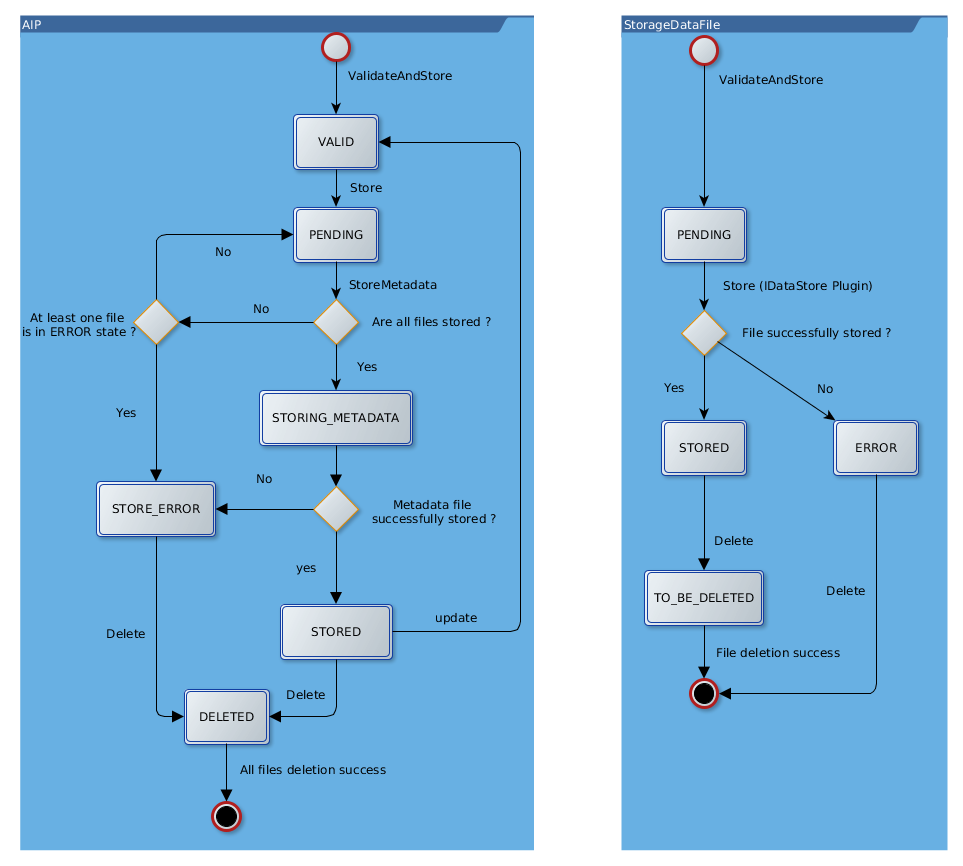
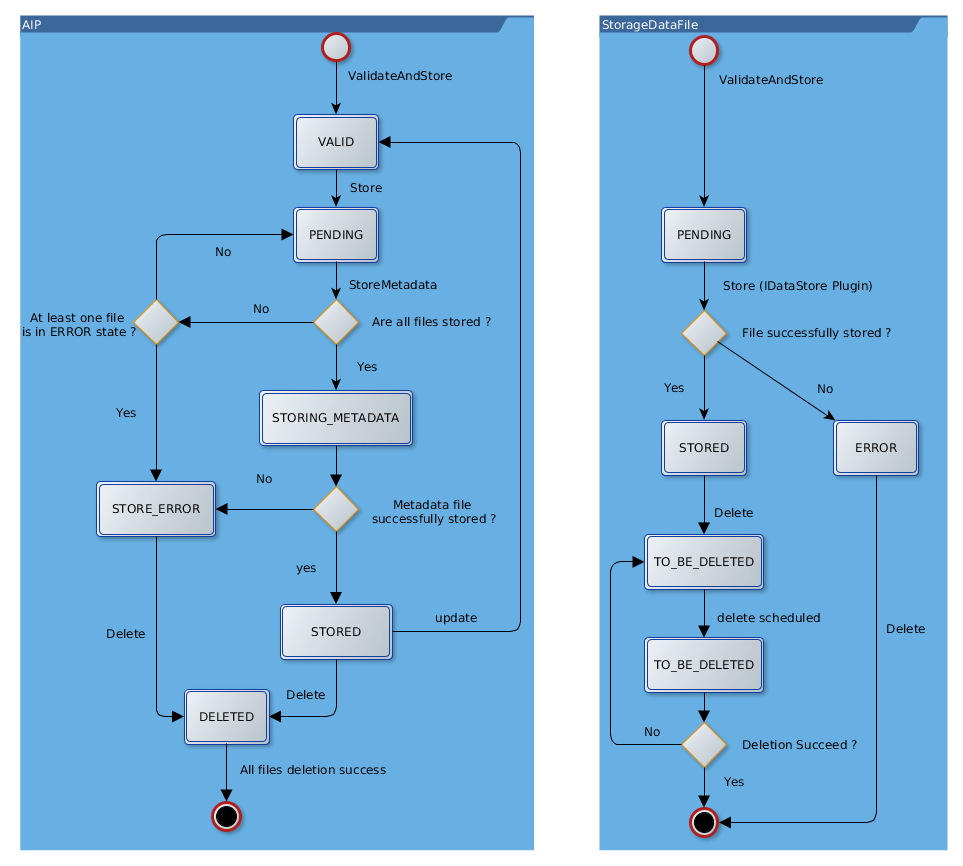
[rs-storage] Update delete process to handle more files.

Changed region(s): [[0.6231, 0.0, 0.8723, 0.9977], [0.9346, 0.7171, 0.9657, 0.7483], [0.8723, 0.6547, 0.9034, 0.6859]]

diff --git a/rs-storage/storage/storage-service/src/main/java/fr/cnes/regards/modules/storage/service/AIPService.java b/rs-storage/storage/storage-service/src/main/java/fr/cnes/regards/modules/storage/service/AIPService.java
@@ -1232,17 +1232,20 @@ public class AIPService implements IAIPService {
     }
 
     @Override
-    public int doDelete() {
-        Page<StorageDataFile> pageToDelete = dataFileDao.findPageByState(DataFileState.TO_BE_DELETED,
-                                                                         new PageRequest(0, aipIterationLimit));
-        if (pageToDelete.hasContent()) {
+    public Long doDelete() {
+        Pageable page = new PageRequest(0, aipIterationLimit);
+        Page<StorageDataFile> pageToDelete;
+        do {
+            pageToDelete = dataFileDao.findPageByState(DataFileState.TO_BE_DELETED, page);
             try {
                 scheduleDeletion(pageToDelete.getContent());
             } catch (ModuleException e) {
                 LOGGER.error("ERROR occured during deletion scheduling of datafiles.", e);
             }
-        }
-        return pageToDelete.getNumberOfElements();
+            page = pageToDelete.nextPageable();
+        } while (pageToDelete.hasNext());
+
+        return pageToDelete.getTotalElements();
     }
 
     @Override
@@ -1292,8 +1295,11 @@ public class AIPService implements IAIPService {
         // when we delete DataFiles, we have to get the DataStorages to use thanks to DB informations
         Multimap<Long, StorageDataFile> deletionWorkingSetMultimap = HashMultimap.create();
         for (StorageDataFile toDelete : dataFilesToDelete) {
-            toDelete.getPrioritizedDataStorages()
-                    .forEach(dataStorage -> deletionWorkingSetMultimap.put(dataStorage.getId(), toDelete));
+            toDelete.getPrioritizedDataStorages().forEach(dataStorage -> {
+                deletionWorkingSetMultimap.put(dataStorage.getId(), toDelete);
+            });
+            toDelete.setState(DataFileState.DELETION_PENDING);
+            dataFileDao.save(toDelete);
         }
         Set<UUID> jobIds = Sets.newHashSet();
         for (Long dataStorageConfId : deletionWorkingSetMultimap.keySet()) {

diff --git a/rs-storage/storage/storage-rest/src/test/java/fr/cnes/regards/modules/storage/rest/AbstractAIPControllerIT.java b/rs-storage/storage/storage-rest/src/test/java/fr/cnes/regards/modules/storage/rest/AbstractAIPControllerIT.java
@@ -47,6 +47,7 @@ import fr.cnes.regards.modules.notification.client.INotificationClient;
 import fr.cnes.regards.modules.project.client.rest.IProjectsClient;
 import fr.cnes.regards.modules.storage.dao.IAIPDao;
 import fr.cnes.regards.modules.storage.dao.IAIPSessionRepository;
+import fr.cnes.regards.modules.storage.dao.IAIPUpdateRequestRepository;
 import fr.cnes.regards.modules.storage.dao.IDataFileDao;
 import fr.cnes.regards.modules.storage.dao.IPrioritizedDataStorageRepository;
 import fr.cnes.regards.modules.storage.domain.AIP;
@@ -98,6 +99,9 @@ public abstract class AbstractAIPControllerIT extends AbstractRegardsTransaction
     protected IAIPDao aipDao;
 
     @Autowired
+    protected IAIPUpdateRequestRepository aipUpdateRepo;
+
+    @Autowired
     protected IAIPSessionRepository aipSessionRepo;
 
     @Autowired
@@ -145,6 +149,7 @@ public abstract class AbstractAIPControllerIT extends AbstractRegardsTransaction
         runtimeTenantResolver.forceTenant(getDefaultTenant());
         subscriber.purgeQueue(DataStorageEvent.class, DataStorageEventHandler.class);
         jobInfoRepo.deleteAll();
+        aipUpdateRepo.deleteAll();
         dataFileDao.deleteAll();
         aipDao.deleteAll();
         prioritizedDataStorageRepository.deleteAll();

diff --git a/rs-storage/storage/storage-service/src/main/java/fr/cnes/regards/modules/storage/service/DataStorageService.java b/rs-storage/storage/storage-service/src/main/java/fr/cnes/regards/modules/storage/service/DataStorageService.java
@@ -312,6 +312,8 @@ public class DataStorageService implements IDataStorageService {
                     // Maybe the file can be deleted later. So do nothing and just notify administrator.
                     String message = String.format("Error deleting file (id: %s, checksum: %s).", event.getDataFileId(),
                                                    event.getChecksum());
+                    data.get().setState(DataFileState.TO_BE_DELETED);
+                    dataFileDao.save(data.get());
                     LOGGER.error(message);
                     notifyAdmins("File deletion error", message, NotificationType.INFO);
                     break;

diff --git a/rs-storage/storage/storage-service/src/main/java/fr/cnes/regards/modules/storage/service/ScheduleStorageTasks.java b/rs-storage/storage/storage-service/src/main/java/fr/cnes/regards/modules/storage/service/ScheduleStorageTasks.java
@@ -137,7 +137,7 @@ public class ScheduleStorageTasks {
         for (String tenant : tenantResolver.getAllActiveTenants()) {
             runtimeTenantResolver.forceTenant(tenant);
             long startTime = System.currentTimeMillis();
-            int nbScheduled = aipService.doDelete();
+            Long nbScheduled = aipService.doDelete();
             LOGGER.trace("AIP data delete scheduled in {}ms for {} aips", System.currentTimeMillis() - startTime,
                          nbScheduled);
             runtimeTenantResolver.clearTenant();

diff --git a/rs-storage/storage/storage-rest/src/test/java/fr/cnes/regards/modules/storage/rest/AIPSessionControllerIT.java b/rs-storage/storage/storage-rest/src/test/java/fr/cnes/regards/modules/storage/rest/AIPSessionControllerIT.java
@@ -40,7 +40,7 @@ public class AIPSessionControllerIT extends AbstractAIPControllerIT {
         int nbAipsSession1 = 8;
         int nbDeletedAipsSession1 = 2;
         int nbErrorAipsSession1 = 2;
-        int nbQueueAipsSession1 = 3;
+        int nbQueueAipsSession1 = 2;
         int nbStoredAipsSession1 = 2;
         int nbAipsSession2 = 1;
         RequestBuilderCustomizer requestBuilderCustomizer = getNewRequestBuilderCustomizer();

diff --git a/rs-storage/storage/storage-domain/src/main/java/fr/cnes/regards/modules/storage/domain/database/DataFileState.java b/rs-storage/storage/storage-domain/src/main/java/fr/cnes/regards/modules/storage/domain/database/DataFileState.java
@@ -15,7 +15,17 @@ public enum DataFileState {
     /**
      * Error during storage process
      */
-    ERROR, TO_BE_DELETED;
+    ERROR,
+
+    /**
+     * Data file is waiting to be handle for deletion
+     */
+    TO_BE_DELETED,
+
+    /**
+     * Data file deletion is scheduled
+     */
+    DELETION_PENDING;
 
     @Override
     public String toString() {

diff --git a/rs-storage/storage/storage-service/src/main/java/fr/cnes/regards/modules/storage/service/IAIPService.java b/rs-storage/storage/storage-service/src/main/java/fr/cnes/regards/modules/storage/service/IAIPService.java
@@ -236,7 +236,7 @@ public interface IAIPService {
      * Schedule deletion of datafiles marked for deletion
      * @return number of scheduled aip to delete
      */
-    int doDelete();
+    Long doDelete();
 
     /**
      * Remove {@link AIP}s associated the given sip, through its ip id
